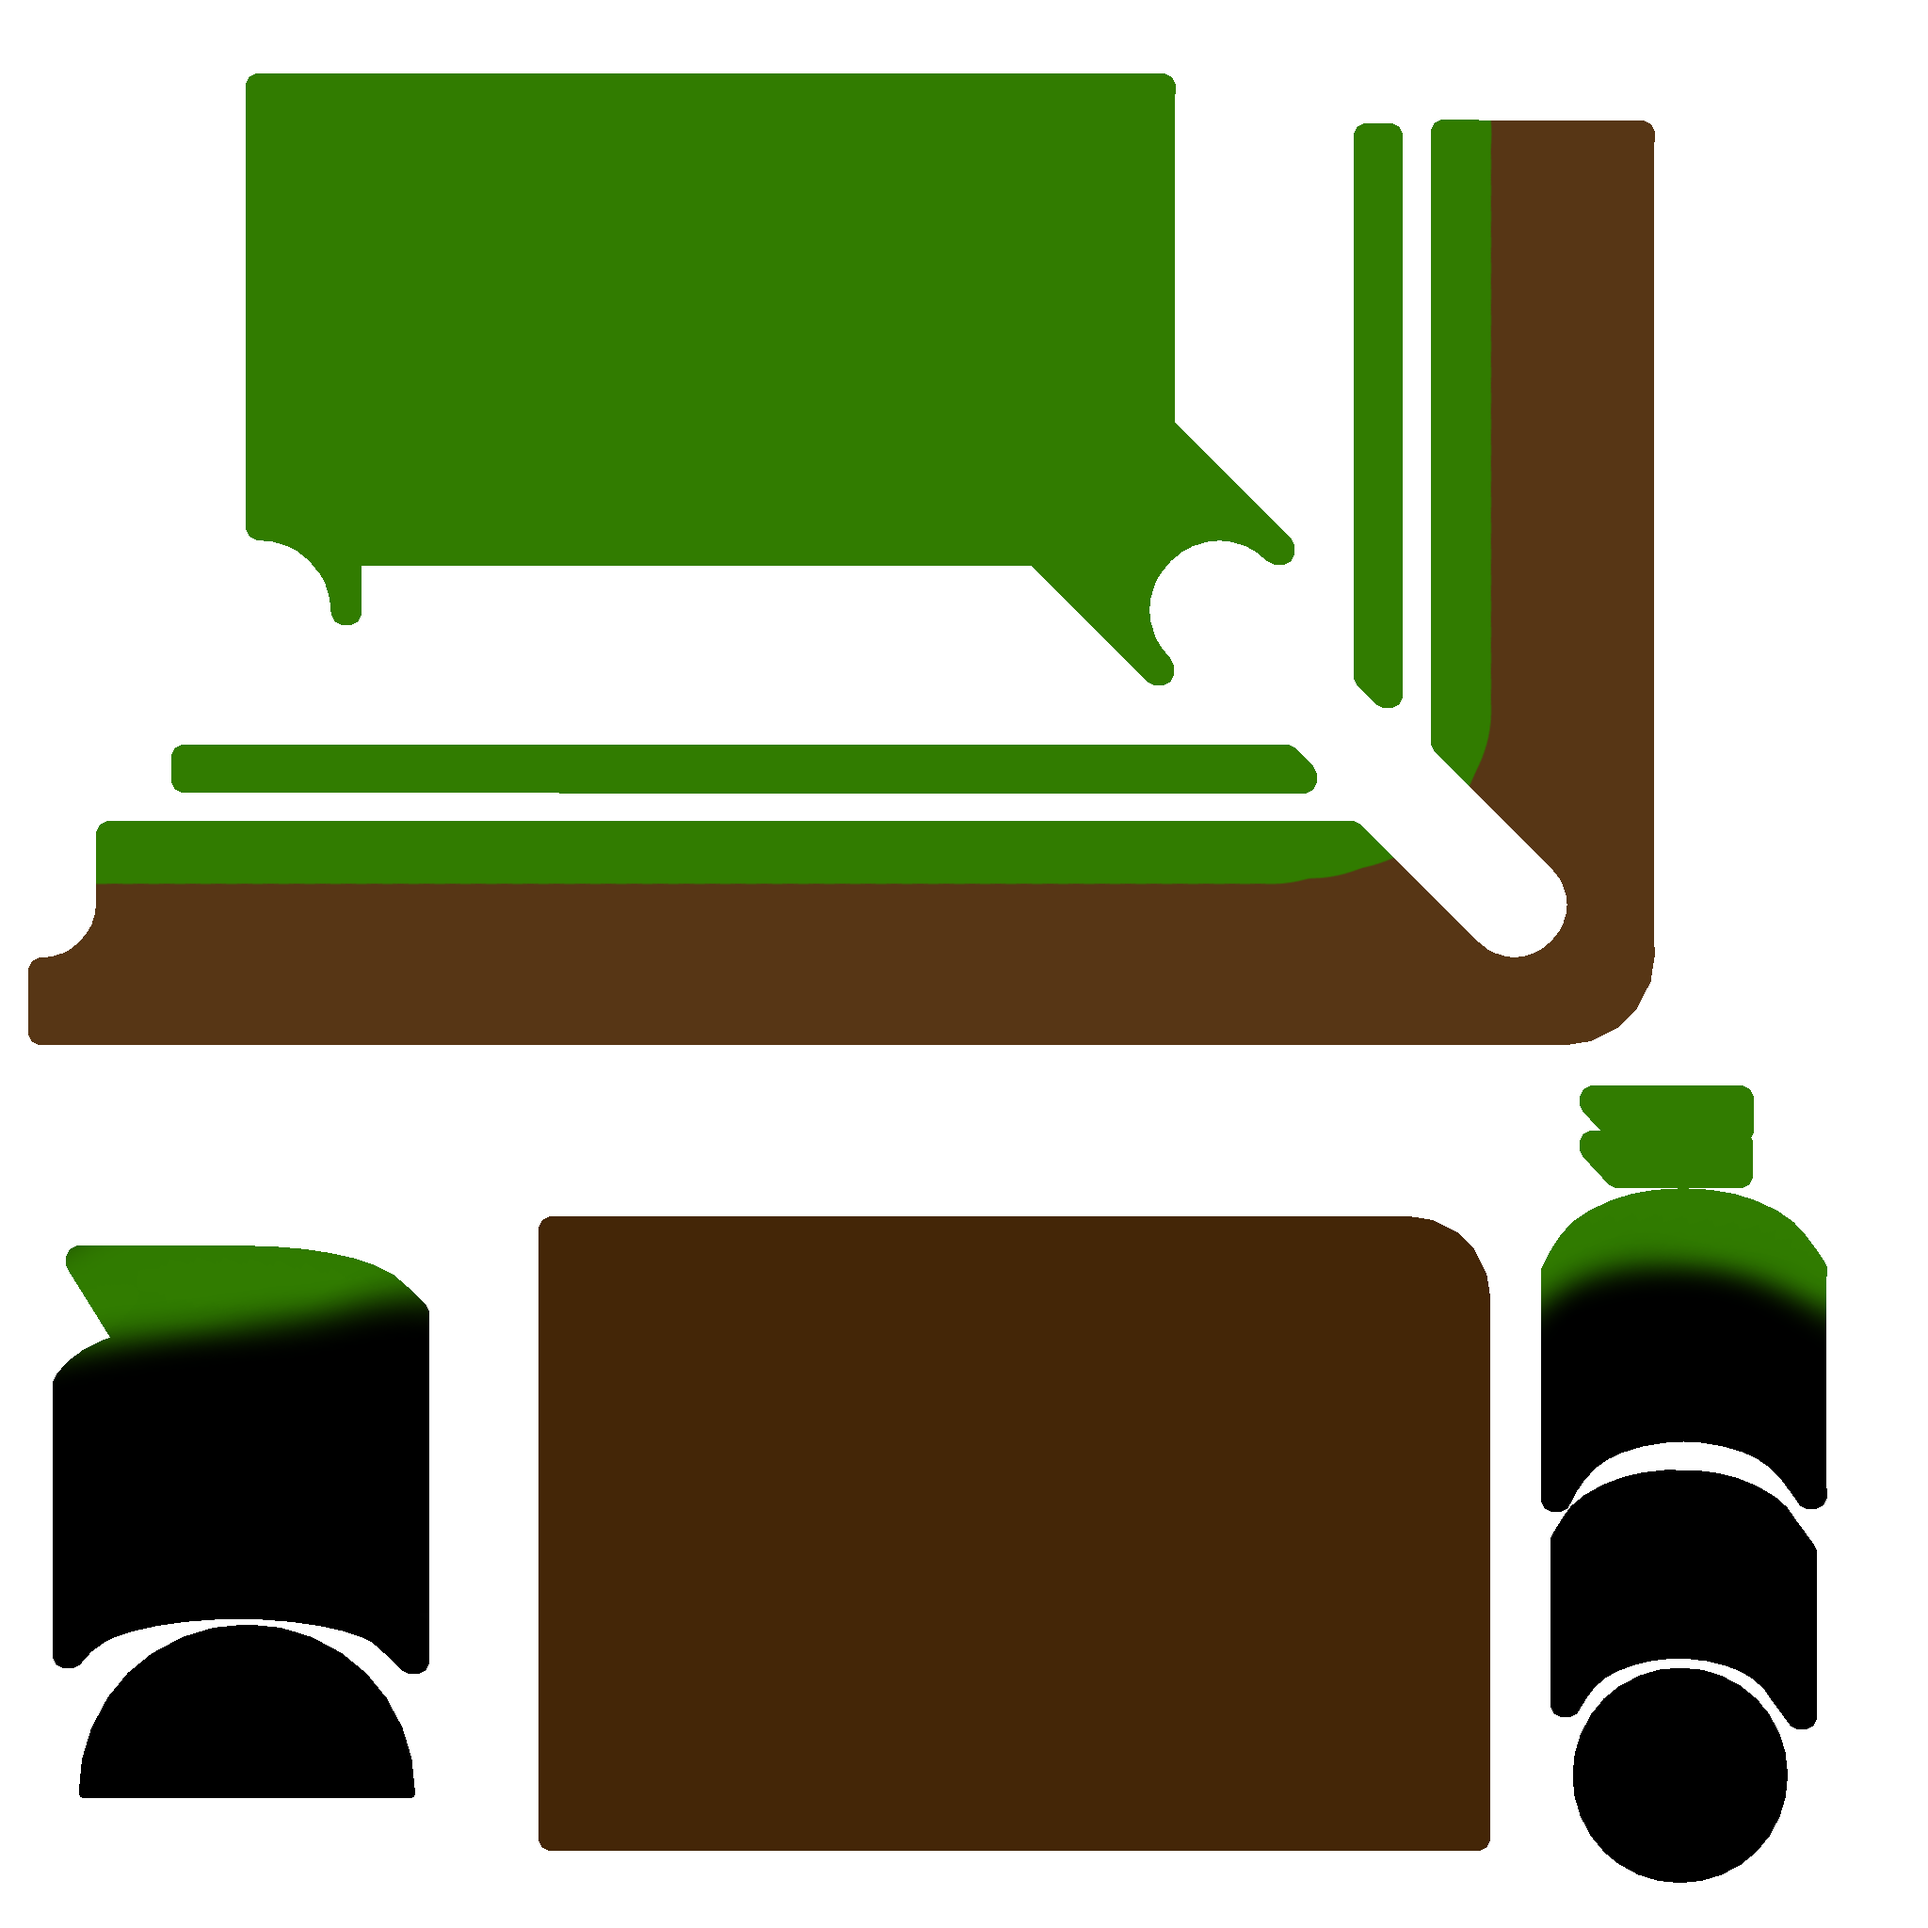
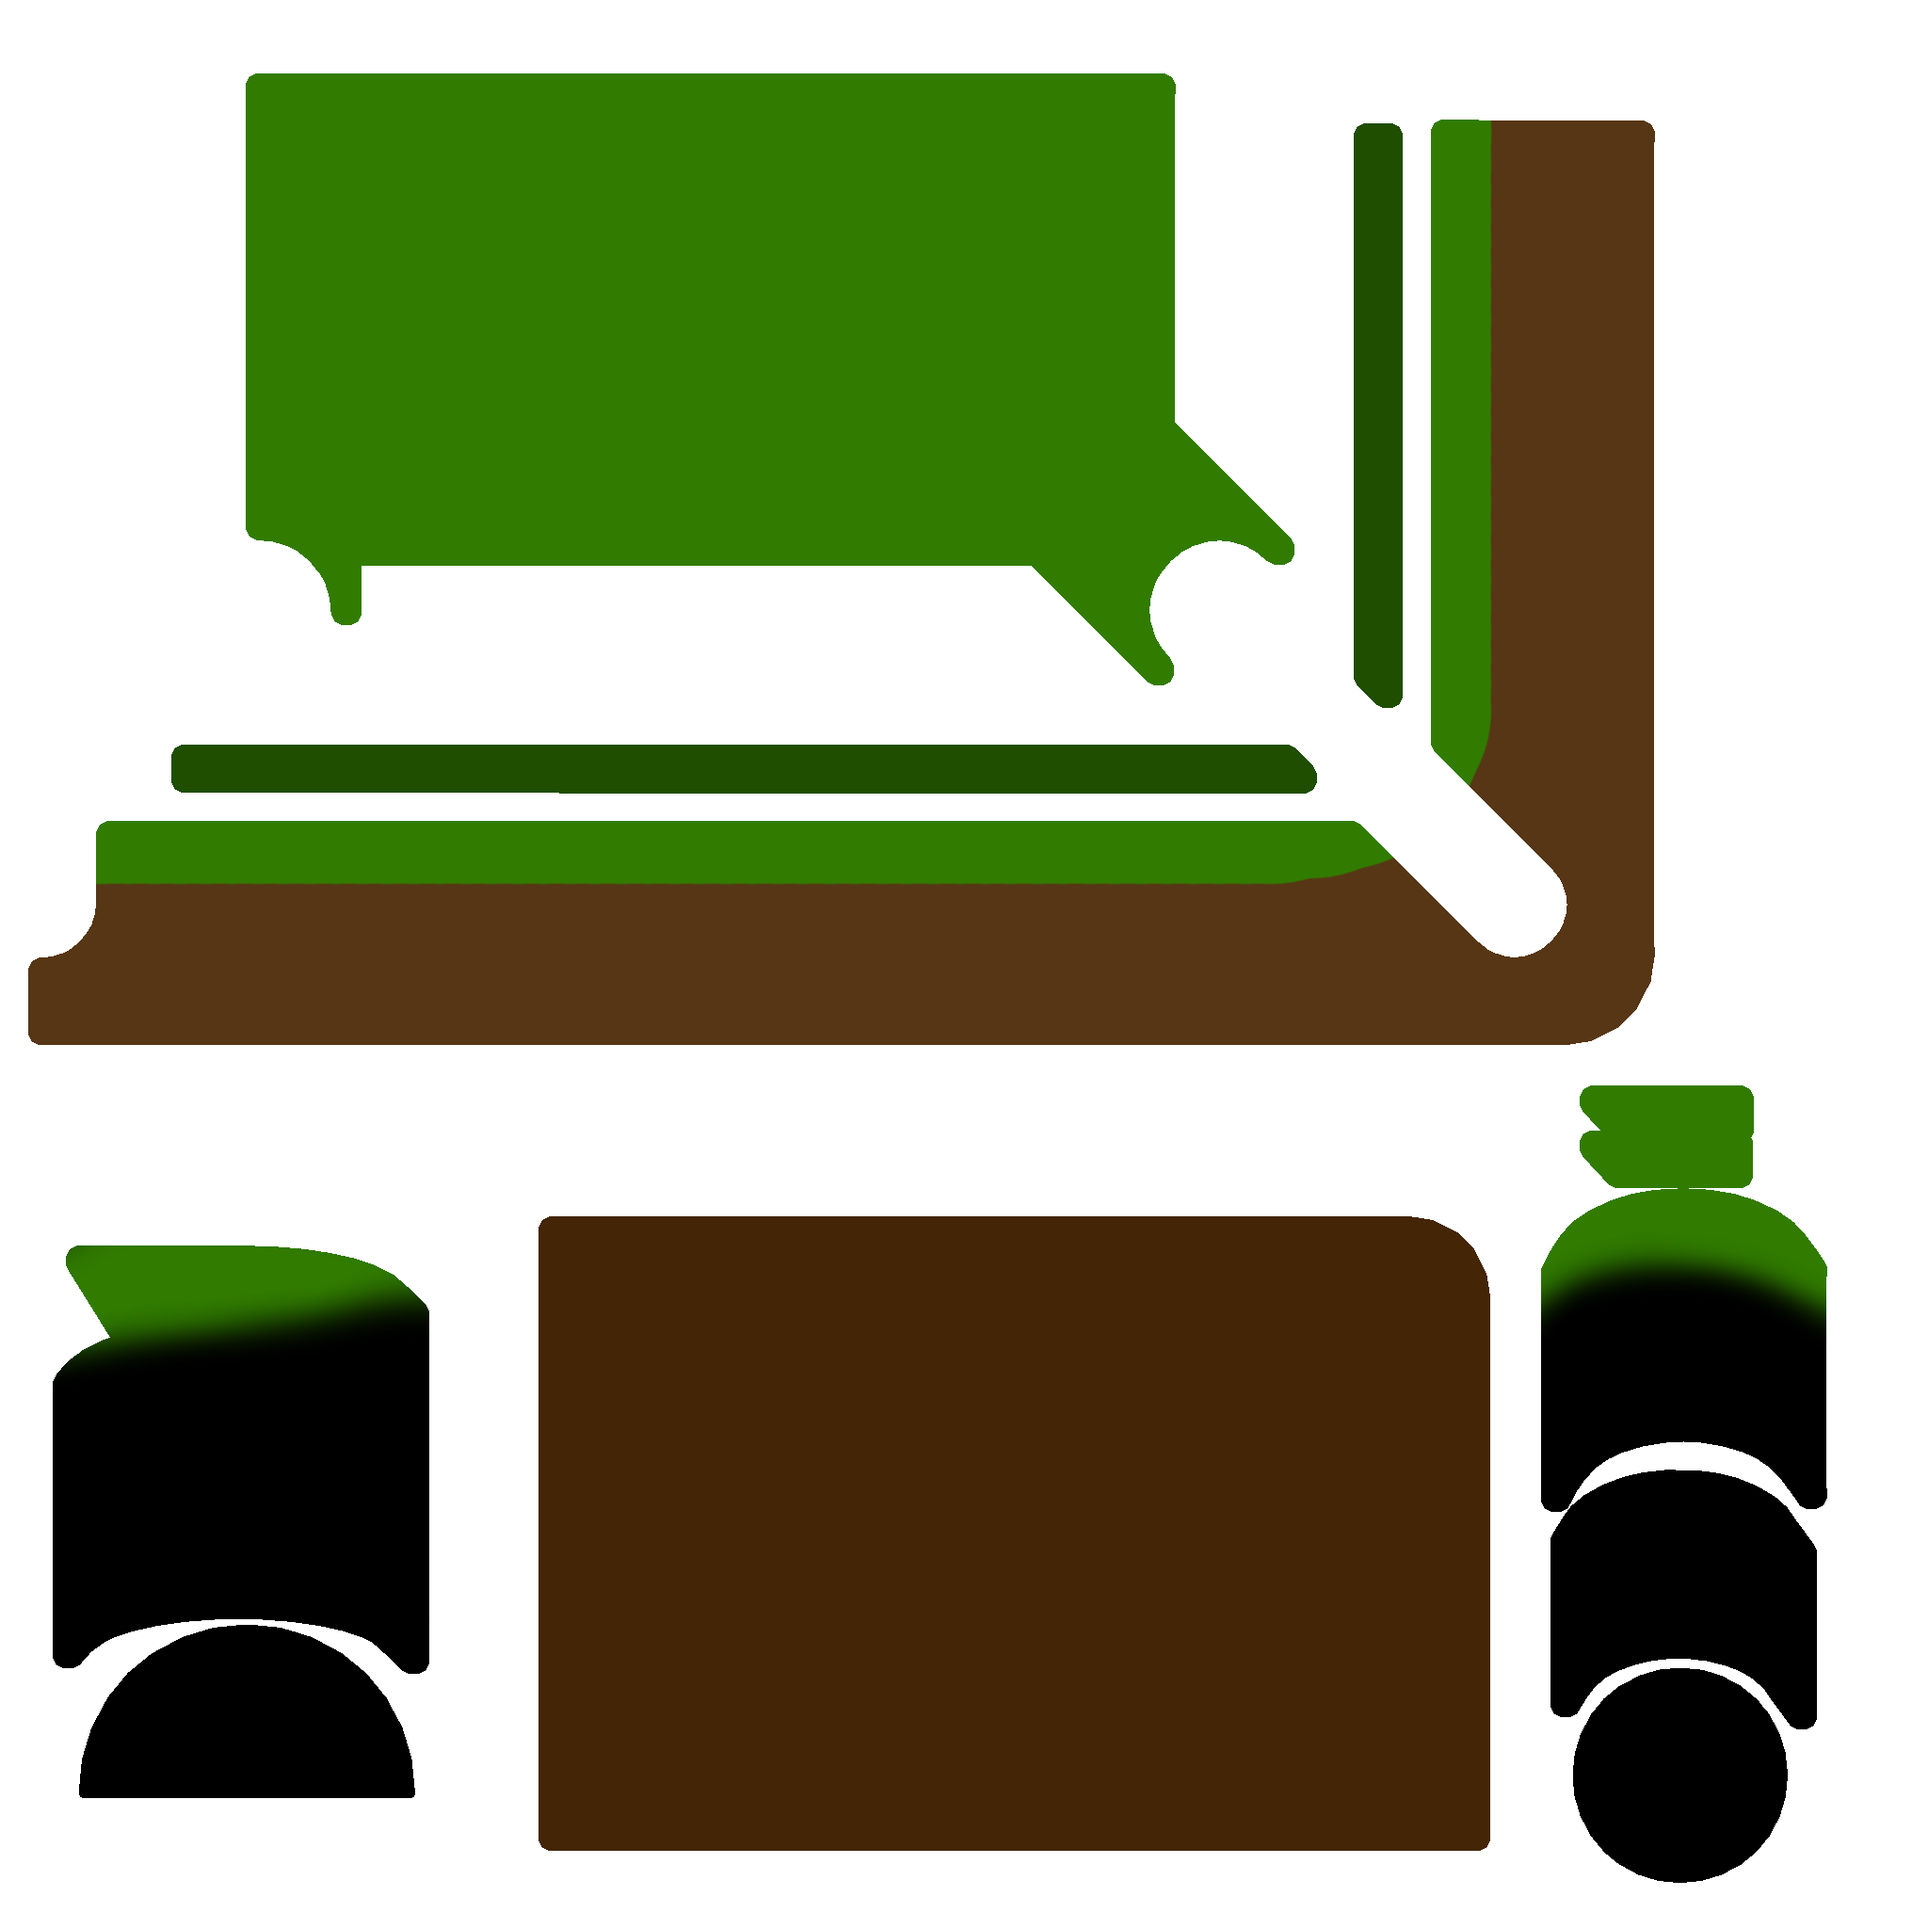
Fixed the camera orientation. Shadows under table edge.

Changed region(s): [[0.0938, 0.375, 0.6875, 0.4375], [0.6875, 0.0625, 0.75, 0.375]]

diff --git a/billiards.js b/billiards.js
@@ -148,6 +148,14 @@ window.onload = function init() {
   //----------------------------------------
   window.onkeydown = function(event) {
     switch (event.keyCode) {
+      case 37:  // Left Arrow
+        billiardTable.orientation = qmult(billiardTable.orientation, quat(0.0, 0.00087, 0.0, 1.0));
+        break;
+      case 39:  // Right Arrow
+        billiardTable.orientation = qmult(billiardTable.orientation, qinverse(quat(0.0, 0.00087, 0.0, 1.0)));
+        break;
+
+      /* Debugging for broken verticies */
       case 38:  // Up Arrow
         billiardTable.mesh.numIndices += billiardTable.mesh.numIndices/2;
         console.log("billiardTable.mesh.numIndices: " + billiardTable.mesh.numIndices);
@@ -172,7 +180,7 @@ function startGame() {
   // TODO: Create game objects
   //----------------------------------------
   // TODO: Allow user to select different game modes
-  billiardTable = new BilliardTable(NINE_BALL_MODE);
+  billiardTable = new BilliardTable(NINE_BALL_MODE, vec3(0.0, 0.0, 0.5));
 
   mainCamera = new Camera(MAIN_CAMERA_POSITION,
                           MAIN_CAMERA_ORIENTATION,
@@ -573,7 +581,7 @@ function loadTexture(image) {
 // no assets.
 var MeshObject = function(
     meshAsset, textureAsset, shaderAsset,
-    position, orientation) {
+    position, orientation, scale) {
   if (typeof position == 'undefined') {
     this.position = vec3(0.0, 0.0, 0.0);
   } else if (!Array.isArray(position) || position.length != 3) {
@@ -582,12 +590,25 @@ var MeshObject = function(
     this.position = position;
   }
   if (typeof orientation == 'undefined') {
-    this.orientation = vec4(0.0, 0.0, 0.0, 1.0);
+    this.orientation = quat(0.0, 0.0, 0.0, 1.0);
   }
   else if (!Array.isArray(orientation) || orientation.length != 4) {
     throw "MeshObject(): orientation must be vec4";
   } else {
     this.orientation = orientation;
+  }
+  if (typeof orientation == 'undefined') {
+    this.orientation = quat(0.0, 0.0, 0.0, 1.0);
+  }
+  else if (!Array.isArray(orientation) || orientation.length != 4) {
+    throw "MeshObject(): orientation must be vec4";
+  } else {
+    this.orientation = orientation;
+  }
+  if (typeof scale == 'undefined') {
+    this.scale = 1.0;
+  } else {
+    this.scale = scale;
   }
 
   this.mesh = assets[meshAsset];
@@ -659,10 +680,12 @@ MeshObject.prototype.bindTextures = function(gl) {
 }
 MeshObject.prototype.draw = function(gl, modelWorld, worldView, projection) {
   var initialSize = modelWorld.size();
-  // Rotate the object
-  modelWorld.push(quatToMatrix(this.orientation));
   // Translate the object into its position
   modelWorld.push(translate(this.position));
+  // Rotate the object with respect to the model's origin
+  modelWorld.push(quatToMatrix(this.orientation));
+  // Scale the object proportionally
+  modelWorld.push(scalem(this.scale, this.scale, this.scale));
 
   // Breaking the draw method up into subroutines facilitates some flexibility
   // in the implementation of objects derived from MeshObject
@@ -671,6 +694,10 @@ MeshObject.prototype.draw = function(gl, modelWorld, worldView, projection) {
   this.setMatrixUniforms(gl, modelWorld, worldView, projection);
   this.bindTextures(gl);
   this.drawElements(gl);
+
+  // Draw our children (if we have them) relative to ourselves
+  if (typeof this.drawChildren != 'undefined')
+    this.drawChildren(gl, modelWorld, worldView, projection);
 
   // Return the model-world transformation stack to its original state
   modelWorld.unwind(initialSize);
@@ -758,20 +785,10 @@ var BilliardBall = function(number, position, orientation) {
 
   // Initial physical properties
   this.velocity = vec2(1.0, 1.0, 0.0);
+  this.scale = BALL_RADIUS;  // The mesh has unit 1m radius
 };
 BilliardBall.prototype = Object.create(MeshObject.prototype);
 BilliardBall.prototype.constructor = BilliardBall;
-BilliardBall.prototype.draw = function(gl, modelWorld, worldView, projection) {
-  var initialSize = modelWorld.size();
-  // Scale the ball (the mesh is unit size, i.e. 1 meter in diameter)
-  modelWorld.push(scalem(BALL_RADIUS, BALL_RADIUS, BALL_RADIUS));
-
-  // Actually draw ourselves
-  MeshObject.prototype.draw.call(this, gl, modelWorld, worldView, projection);
-
-  // Return the model-world transformation stack to its original state
-  modelWorld.unwind(initialSize);
-}
 BilliardBall.prototype.tick = function(dt) {
   this.velocity[2] = 0.0;  // Make sure the ball does not leave the billiard table surface
   // TODO: Implement 3-dimensional velocity for balls falling in pockets
@@ -805,7 +822,9 @@ BilliardBall.prototype.tick = function(dt) {
 //------------------------------------------------------------
 var BilliardTable = function(gamemode, position, orientation) {
   // Iherit from mesh object
-  MeshObject.call(this, "common/billiard_table.obj", "common/billiard_table_simple_colors.png", "billiardball");
+  MeshObject.call(this,
+      "common/billiard_table.obj", "common/billiard_table_simple_colors.png", "billiardball",
+      position, orientation);
 
   this.gamemode = gamemode;
   // Set game parameters based on the selected game mode
@@ -842,11 +861,8 @@ var BilliardTable = function(gamemode, position, orientation) {
   // Collection of camera views for quick access to different camera angles 
 }
 BilliardTable.prototype = Object.create(MeshObject.prototype);
-BilliardTable.prototype.draw = function(gl, modelWorld, worldView, projection) {
+BilliardTable.prototype.drawChildren = function(gl, modelWorld, worldView, projection) {
   var initialSize = modelWorld.size();
-
-  // Draw the billiard table
-  MeshObject.prototype.draw.call(this, gl, modelWorld, worldView, projection);
 
   // FIXME: Don't draw balls that have already been pocketed
   for (var i = 0; i < this.numBalls; ++i) {
@@ -1014,12 +1030,12 @@ Camera.prototype.worldViewTransformation = function() {
     /* FIXME: I don't even consider the parent's rotation here; ugh */
     /* TODO: What I really need is a getWorldPosition() and getWorldOrientation() function that recursively determines the position and orientations of these objects */
   }
+  // Rotate the world so that the camera is oriented facing down the -z axis
+  // and has the correct roll. This amounts to rotating everything in the world
+  // by inverse of our camera's orientation.
+  worldView.push(quatToMatrix(qinverse(this.orientation)));
   // Translate the world so that the camera is at the origin
   worldView.push(translate(scale(-1,cameraWorldCoordinates.slice(0,3))));
-  // TODO: Rotate the world so that the camera is oriented facing down the -z
-  // axis and has the correct roll. This amounts to rotating everything in the
-  // world by inverse of our camera's orientation.
-  worldView.push(quatToMatrix(qinverse(this.orientation)));
 
   return worldView;
 }
@@ -1041,8 +1057,8 @@ Camera.prototype.follow = function(object) {
   // Look at an object (and follow it in tick())
   this.lookAt(object);
 }
-Camera.prototype.rotateAbout = function(point, axis, angularVelocity) {
-  // TODO
+Camera.prototype.rotateAbout = function(object, axis, angularVelocity) {
+  // TODO: 
 }
 Camera.prototype.transitionTo = function(camera, stepFunction, callback) {
   // TODO
@@ -1069,7 +1085,7 @@ var TransformationStack = function() {
   this.stack = [ scalem(1.0, 1.0, 1.0) ];  // There should be an ident()
 }
 TransformationStack.prototype.push = function(transform) {
-  var newTransform = mult(transform, this.peek());
+  var newTransform = mult(this.peek(), transform);
   this.stack.push(newTransform);
 }
 TransformationStack.prototype.peek = function() {
